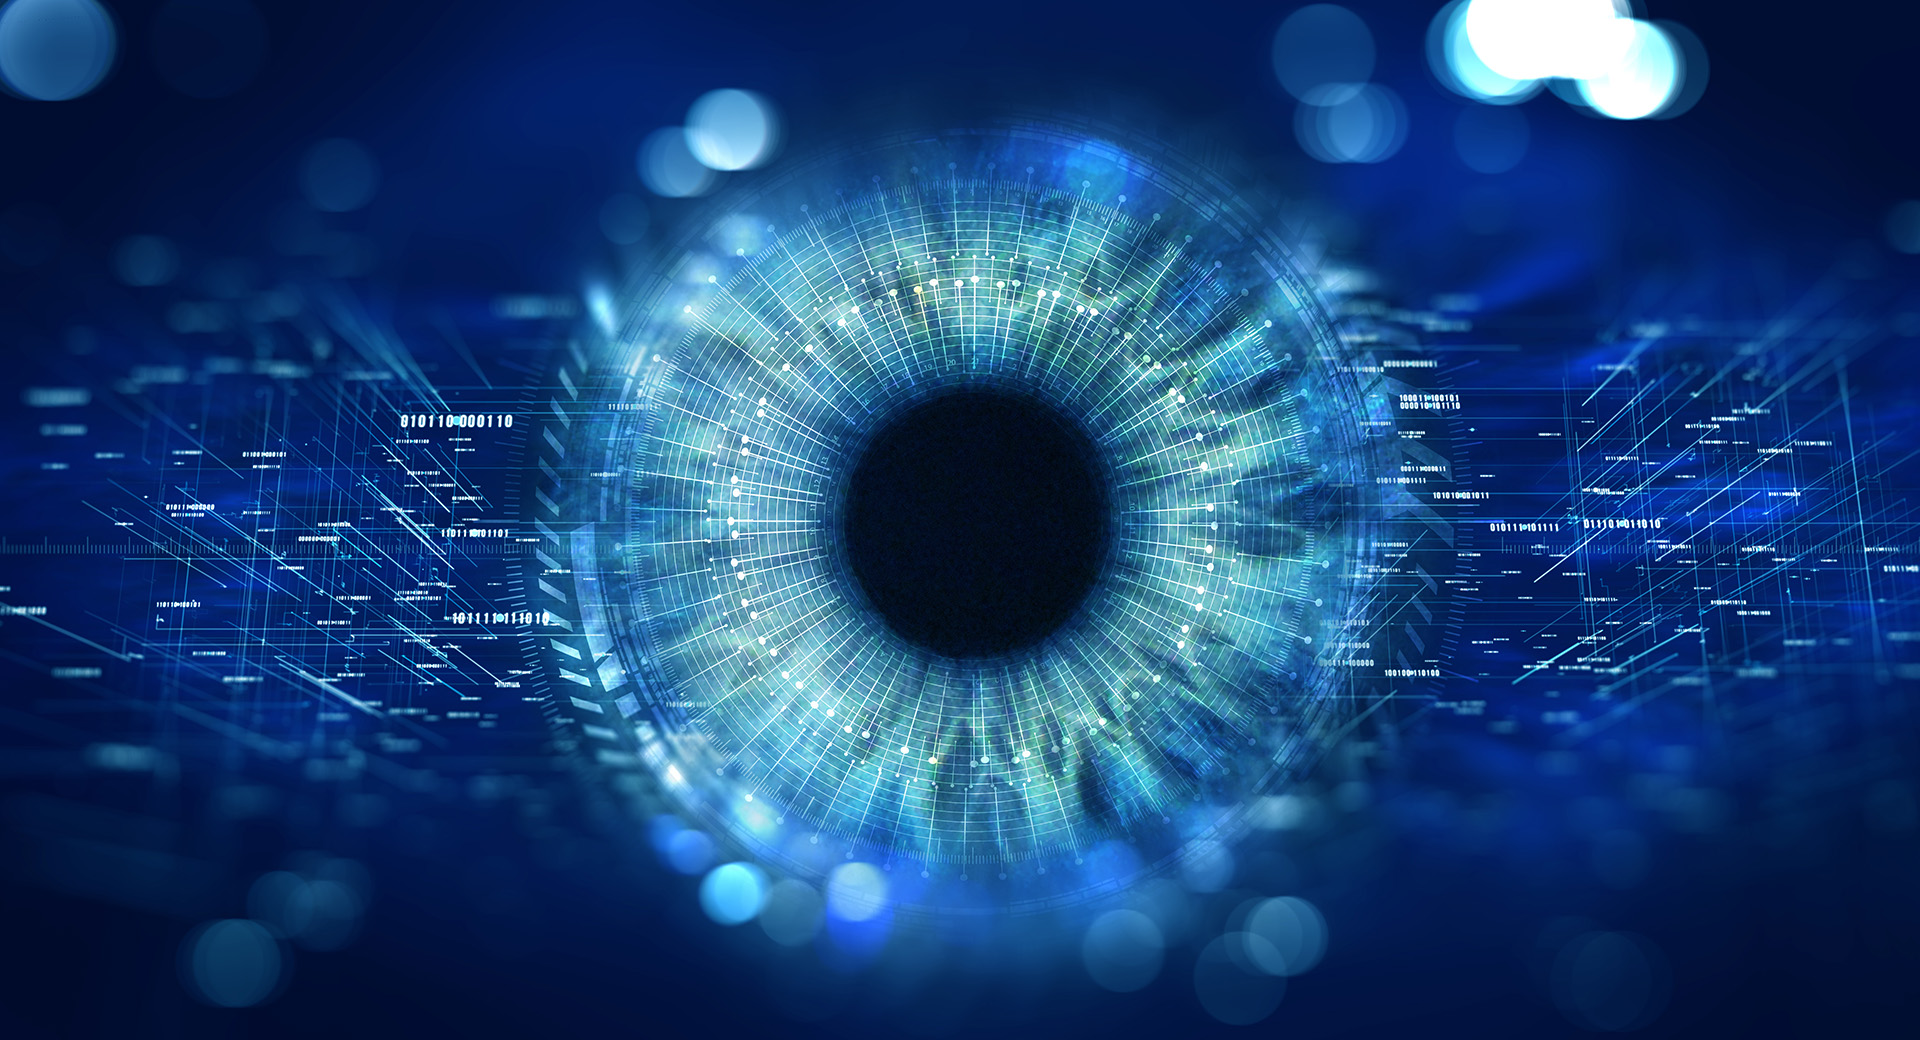
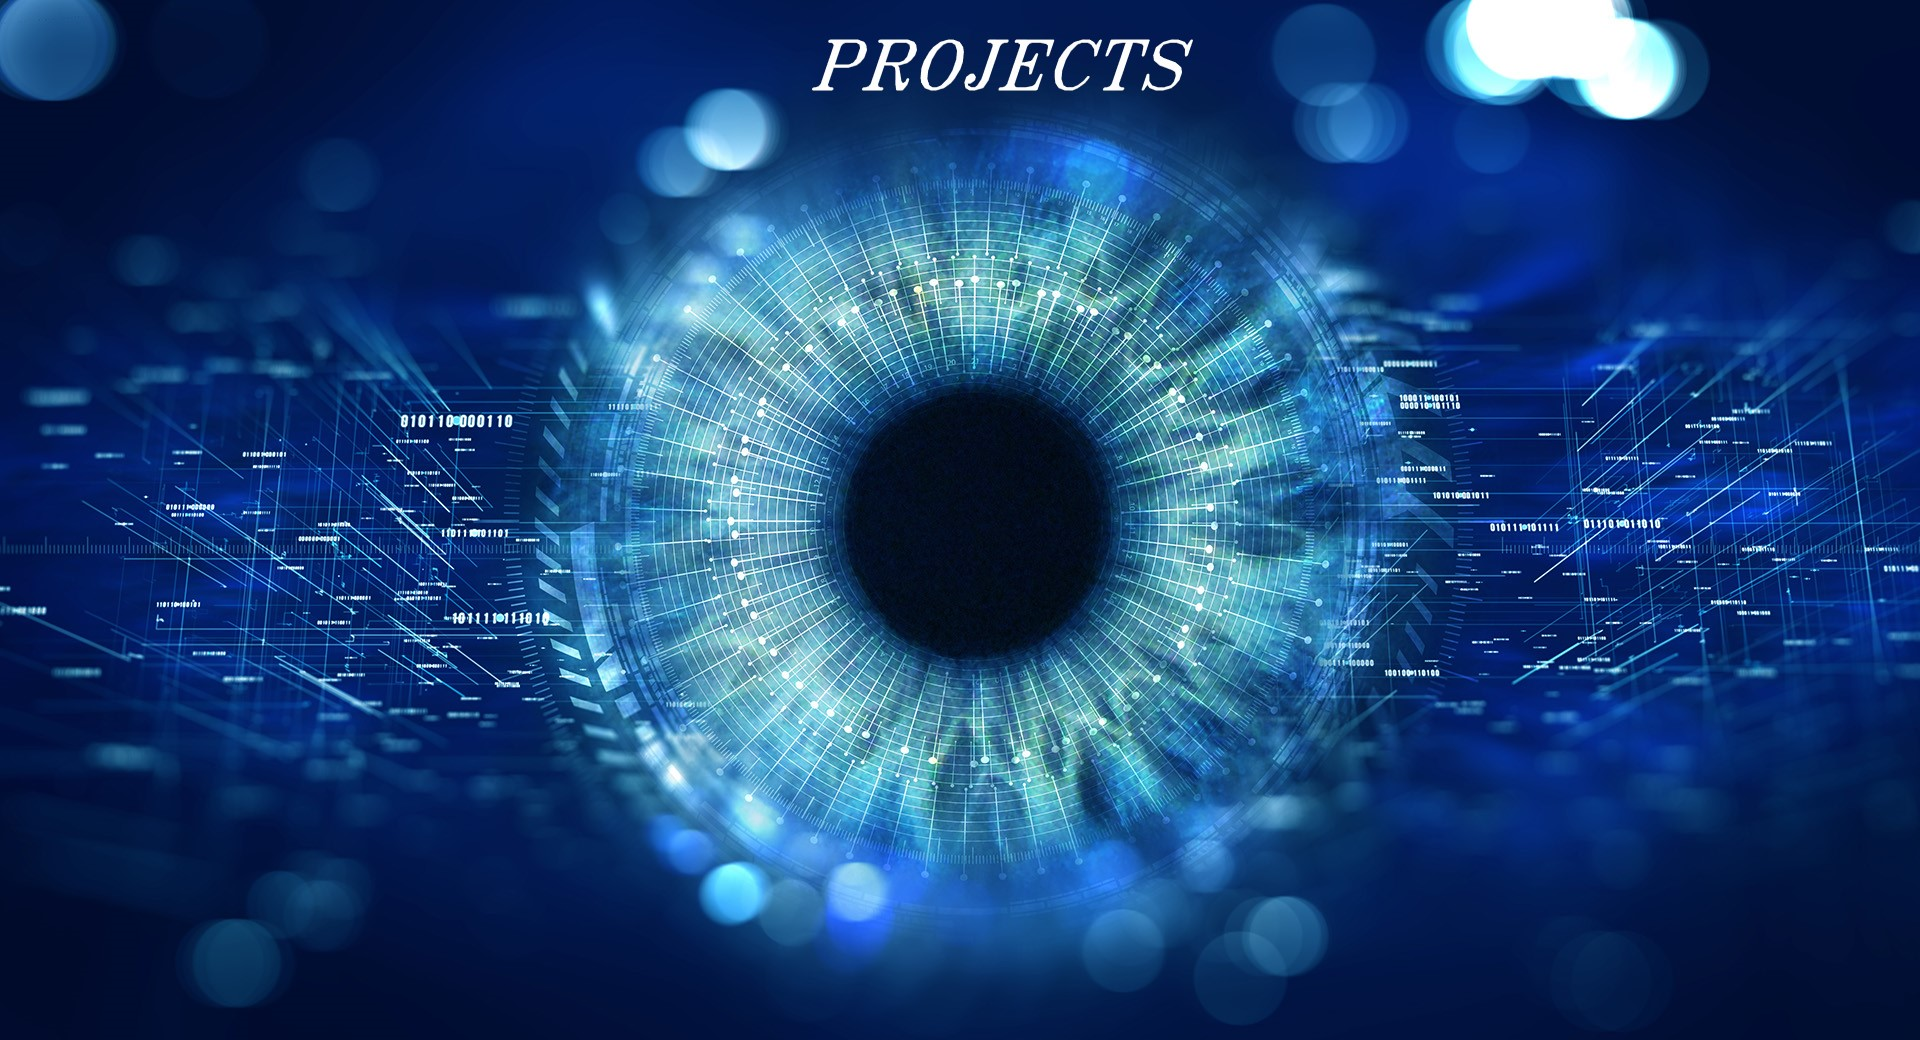
updated

diff --git a/index.html b/index.html
@@ -110,7 +110,7 @@
 							<div  class="hs-item set-bg" data-setbg="img/sab.jpg">
 								<!-- <a > </a> -->
 								<!-- <div class="hs-info"> -->
-									<a  style="color:white" href="https://barathwajanandan.com/about.html" class="btn info">About me</a>
+									<a  style="color:white" href="https://barathwajanandan.com/about.html" class="btn info"></a>
 									<!-- <h3 href= "https://barathwajanandan.com/about.html" >About me</h3> -->
 									
 									<!-- <a href="https://barathwajanandan.com/about.html"><img src="img/arrow-right.png" alt=""></a> -->
@@ -120,14 +120,14 @@
 
 							<div class="hs-item set-bg" data-setbg="img/cv.jpeg">
 								<!-- <div class="hs-info"> -->
-									<a  style="color:white" href="https://barathwajanandan.com/projects.html" class="btn info">Projects</a>
+									<a  style="color:white" href="https://barathwajanandan.com/projects.html" class="btn info"></a>
 									
 									<!-- <a href="#"><img src="img/arrow-right.png" alt=""></a> -->
 								<!-- </div> -->
 							</div>
 							<div class="hs-item set-bg" data-setbg="img/cv_2.png">
 								<!-- <div class="hs-info"> -->
-									<a  style="color:white" href="https://barathwajanandan.com/Experience.html" class="btn info">Experience</a>
+									<a  style="color:white" href="https://barathwajanandan.com/Experience.html" class="btn info"></a>
 									
 									<!-- <a href=""><img src="img/arrow-right.png" alt=""></a> -->
 								<!-- </div> -->
